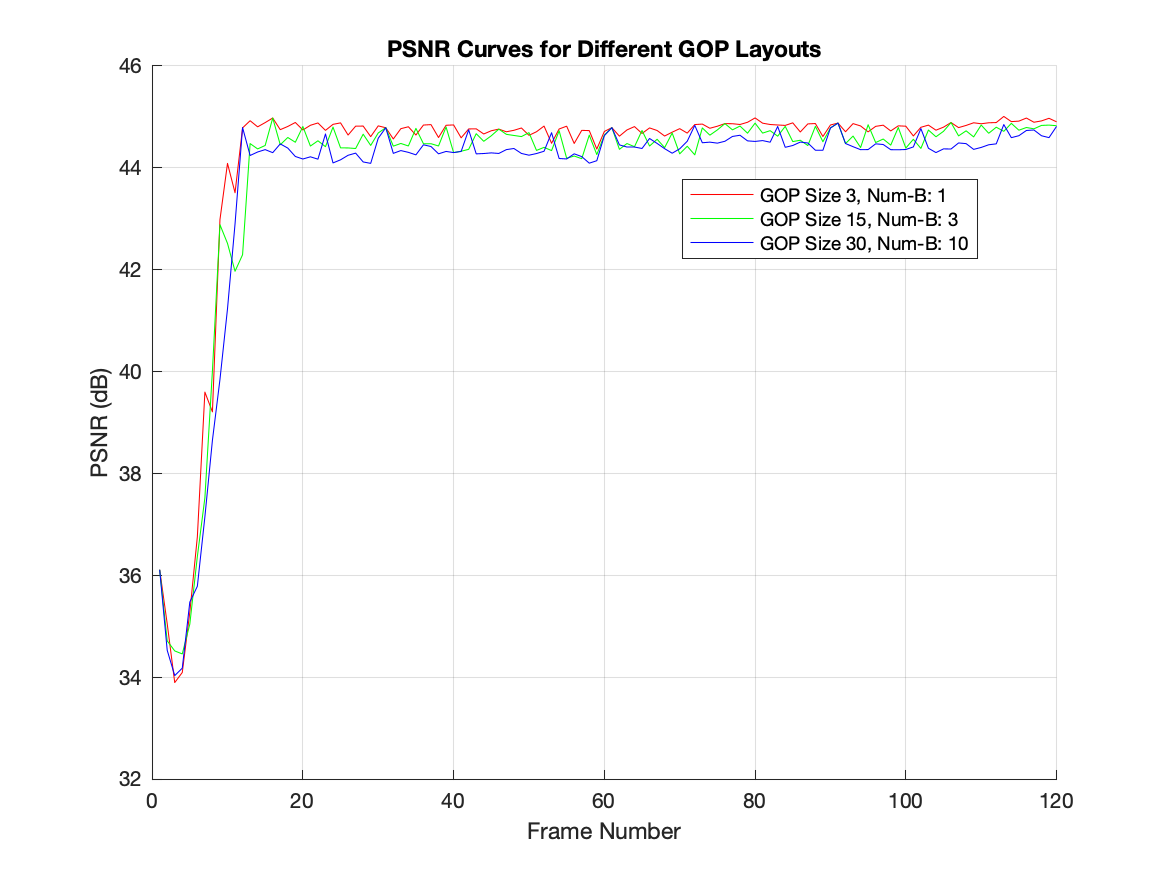
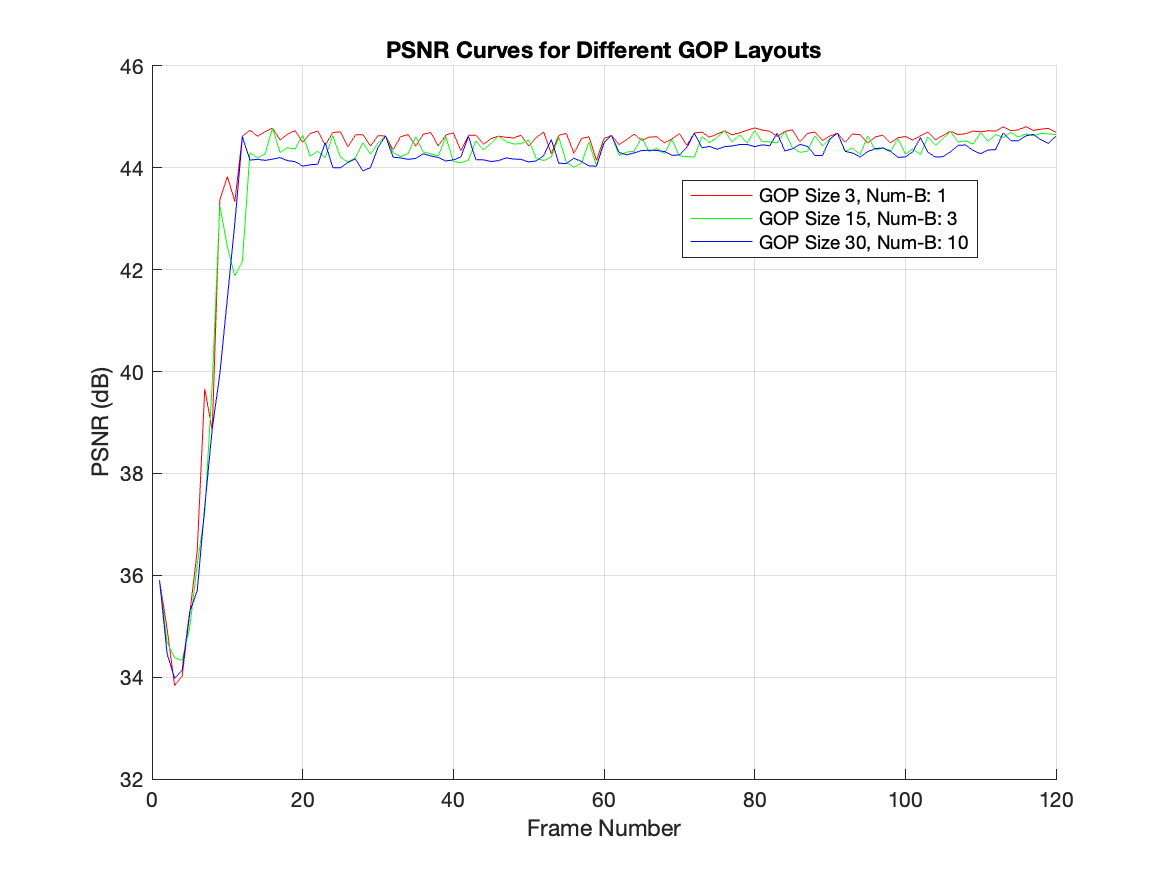
improved algo. charts

diff --git a/psnr_analysis.m b/psnr_analysis.m
@@ -13,6 +13,22 @@ quantization_matrix = [
  72 , 92 , 95 , 98 , 112 , 100 , 103 , 99;
 ];
 
+Q1 = [ ...
+    3  5  7  9 11 13 15 17;
+    5  7  9 11 13 15 17 19;
+    7  9 11 13 15 17 19 21;
+    9 11 13 15 17 19 21 23;
+   11 13 15 17 19 21 23 25;
+   13 15 17 19 21 23 25 27;
+   15 17 19 21 23 25 27 29;
+   17 19 21 23 25 27 29 31 ...
+];
+Q3 = Q1*3;
+Q5 = Q1*5;
+Q7 = Q1*7;
+Q9 = Q1*9;
+Q17 = Q1*17;
+
 %Sort filenames alphabetically
 [~, idx] = sort({files.name});
 files = files(idx);
@@ -31,30 +47,14 @@ end
 %% Plot PSNR curves
 
 GOP_sizes = [1, 15, 30];
-% basic
-psnr_results = psnr_results_basic(GOP_sizes,images,quantization_matrix,original_size);
+QS = {Q0, Q0, Q0, Q0};
 colors = ['r', 'g', 'b'];
 
-figure;
-hold on;
-
-for g = 1:length(GOP_sizes)
-    plot(1:length(images), psnr_results{g}, colors(g), 'DisplayName', sprintf('GOP Size %d', GOP_sizes(g)));
-end
-hold off;
-
-xlabel('Frame Number');
-ylabel('PSNR (dB)');
-title('PSNR Curves for Different GOP Sizes');
-legend('show', 'location','best');
-grid on;
-
-saveas(gcf, "assets/psnr_analysis.png")
-
-% improved
+%% improved
 GOP_sizes = [3, 15, 30];
 num_Bs = [1,3,10];
-psnr_results_improved = imroved_algorithm_results([3, 15, 30],[1,3,10],images,quantization_matrix,original_size);
+QS = {Q0, Q0, Q0, Q0};
+psnr_results_improved = imroved_algorithm_results(GOP_sizes,num_Bs,images,QS,original_size);
 
 figure;
 hold on;
@@ -72,9 +72,49 @@ grid on;
 saveas(gcf, "assets/psnr_analysis_improved.png")
 
 
+GOP_sizes = [15, 15, 15];
+num_Bs = [2,2,2];
+QS = {Q0, Q3, Q5, Q7};
+psnr_results_improved = imroved_algorithm_results(GOP_sizes,num_Bs,images,QS,original_size);
+
+figure;
+hold on;
+for g = 1:length(GOP_sizes)
+    plot(1:length(images), psnr_results_improved{g}, colors(g), 'DisplayName', sprintf('GOP Size %d, Num-B: %d, Quantization: Q%d', GOP_sizes(g), num_Bs(g), g-1));
+end
+hold off;
+
+xlabel('Frame Number');
+ylabel('PSNR (dB)');
+title('PSNR Curves for Different Quantization Matrices');
+legend('show', 'location','best');
+grid on;
+
+saveas(gcf, "assets/psnr_analysis_improved_quantization.png")
+
+%% basic
+psnr_results = psnr_results_basic(GOP_sizes,images,QS,original_size);
+
+figure;
+hold on;
+
+for g = 1:length(GOP_sizes)
+    plot(1:length(images), psnr_results{g}, colors(g), 'DisplayName', sprintf('GOP Size %d', GOP_sizes(g)));
+end
+hold off;
+
+xlabel('Frame Number');
+ylabel('PSNR (dB)');
+title('PSNR Curves for Different GOP Sizes');
+legend('show', 'location','best');
+grid on;
+
+saveas(gcf, "assets/psnr_analysis.png")
+
+
 %% utils
 
-function psnr_results = psnr_results_basic(GOP_sizes,images,quantization_matrix,original_size)
+function psnr_results = psnr_results_basic(GOP_sizes,images,qs,original_size)
     psnr_results = cell(1, length(GOP_sizes));
     
     avg_time = 25; % educated guess
@@ -82,9 +122,10 @@ function psnr_results = psnr_results_basic(GOP_sizes,images,quantization_matrix,
     for g = 1:length(GOP_sizes)  
         tic;
         GOP_size = GOP_sizes(g);
+        Q = qs{g};
     
         % Compress and decompress images
-        compressed_data = basic_compression.compress(images, quantization_matrix, GOP_size, true);
+        compressed_data = basic_compression.compress(images, Q, GOP_size, true);
         compressed_size = basic_compression.dump_size(compressed_data);
         decompressed_images = basic_compression.decompress(compressed_data);
     
@@ -111,19 +152,20 @@ function psnr_results = psnr_results_basic(GOP_sizes,images,quantization_matrix,
 end
 
 
-function psnr_results = imroved_algorithm_results(GOP_sizes,num_Bs,images,quantization_matrix,original_size)
+function psnr_results = imroved_algorithm_results(GOP_sizes,num_Bs,images,qs,original_size)
     psnr_results = cell(1, length(GOP_sizes));
-    avg_time = 40; % educated guess
+    avg_time = 10; % educated guess
     fprintf('Estimated time left: %.0f secs\n', avg_time*(length(GOP_sizes)));
     for g = 1:length(GOP_sizes)  
         tic;
         GOP_size = GOP_sizes(g);
         num_B = num_Bs(g);
+        Q = qs{g};
     
         % Compress and decompress images
-        compressed_data = improved_compression.compress(images, quantization_matrix, GOP_size, num_B, true);
+        compressed_data = improved_compression.fast_compress(images, Q, GOP_size, num_B, true);
         compressed_size = improved_compression.dump_size(compressed_data);
-        decompressed_images = improved_compression.decompress(compressed_data);
+        decompressed_images = improved_compression.fast_decompress(compressed_data, true);
     
         % Compute PSNR for each frame
         psnr_values = zeros(1, length(images));

diff --git a/algo2_params_analysis.m b/algo2_params_analysis.m
@@ -1,0 +1,85 @@
+Q0 = [
+ 16 , 11 , 10 , 16 , 24 , 40 , 51 , 61;
+ 12 , 12 , 14 , 19 , 26 , 58 , 60 , 55;
+ 14 , 13 , 16 , 24 , 40 , 57 , 69 , 56;
+ 14 , 17 , 22 , 29 , 51 , 87 , 80 , 62;
+ 18 , 22 , 37 , 56 , 68 , 109 , 103 , 77;
+ 24 , 35 , 55 , 64 , 81 , 104 , 113 , 92;
+ 49 , 64 , 78 , 87 , 103 , 121 , 120 , 101;
+ 72 , 92 , 95 , 98 , 112 , 100 , 103 , 99;
+];
+
+Q1 = [ ...
+    3  5  7  9 11 13 15 17;
+    5  7  9 11 13 15 17 19;
+    7  9 11 13 15 17 19 21;
+    9 11 13 15 17 19 21 23;
+   11 13 15 17 19 21 23 25;
+   13 15 17 19 21 23 25 27;
+   15 17 19 21 23 25 27 29;
+   17 19 21 23 25 27 29 31 ...
+];
+Q3 = Q1*3;
+Q5 = Q1*5;
+Q7 = Q1*7;
+Q9 = Q1*9;
+Q17 = Q1*17;
+
+files = dir(fullfile("./video_data", "*.jpg"));
+
+images = cell(length(files), 1);
+original_size = 0;
+for k = 1:length(files)
+    filename = files(k).name;
+    file = fullfile("./video_data", filename);
+    img = double(imread(file));
+
+    images{k} = img;
+    original_size = original_size + numel(img);
+end
+%% 
+b_ratios = [1, 2, 3, 4, 5];
+qs = {Q0, Q3, Q5, Q7};
+
+% results = zeros(30, 30, length(qs));
+% for GOP_size = 3:30
+%     for r = b_ratios  
+%         if r > GOP_size
+%             continue
+%         end
+%         num_B = int32(GOP_size/r);
+% 
+%         for q =1:length(qs )
+%             layout = utils.generate_gop_layout(GOP_size, length(images),num_B).types(1:GOP_size);
+%             tic;
+%                 compressed_data = improved_compression.fast_compress(images, qs{q}, GOP_size, num_B, false);
+%                 compressed_size = improved_compression.dump_size(compressed_data);
+%                 comp_ratio = double(original_size) / double(compressed_size);
+%                 results(GOP_size,num_B,q) = comp_ratio;
+%             elapsed_time = toc;
+% 
+%             fprintf('layout=%s\n\tGOP_size: %d, num_B: %d, Q: %d, Compression Ratio: %f, Elapsed: %f seconds\n',layout, GOP_size, num_B,q, comp_ratio, elapsed_time);
+%         end
+%     end
+% end
+
+
+%% 
+
+
+GOP_size = 30;
+% for q =1:2
+q = 1;
+    for num_B = 1:30       
+        layout = utils.generate_gop_layout(GOP_size, length(images),num_B).types(1:GOP_size);
+        tic;
+            compressed_data = improved_compression.fast_compress(images, qs{q}, GOP_size, num_B, false);
+            compressed_size = improved_compression.dump_size(compressed_data);
+            comp_ratio = double(original_size) / double(compressed_size);
+            results(GOP_size,num_B,q) = comp_ratio;
+        elapsed_time = toc;
+     
+        fprintf('layout=%s\n\tGOP_size: %d, num_B: %d, Q: %d, Compression Ratio: %f, Elapsed: %f seconds\n',layout, GOP_size, num_B,q, comp_ratio, elapsed_time);
+    end
+% end
+
